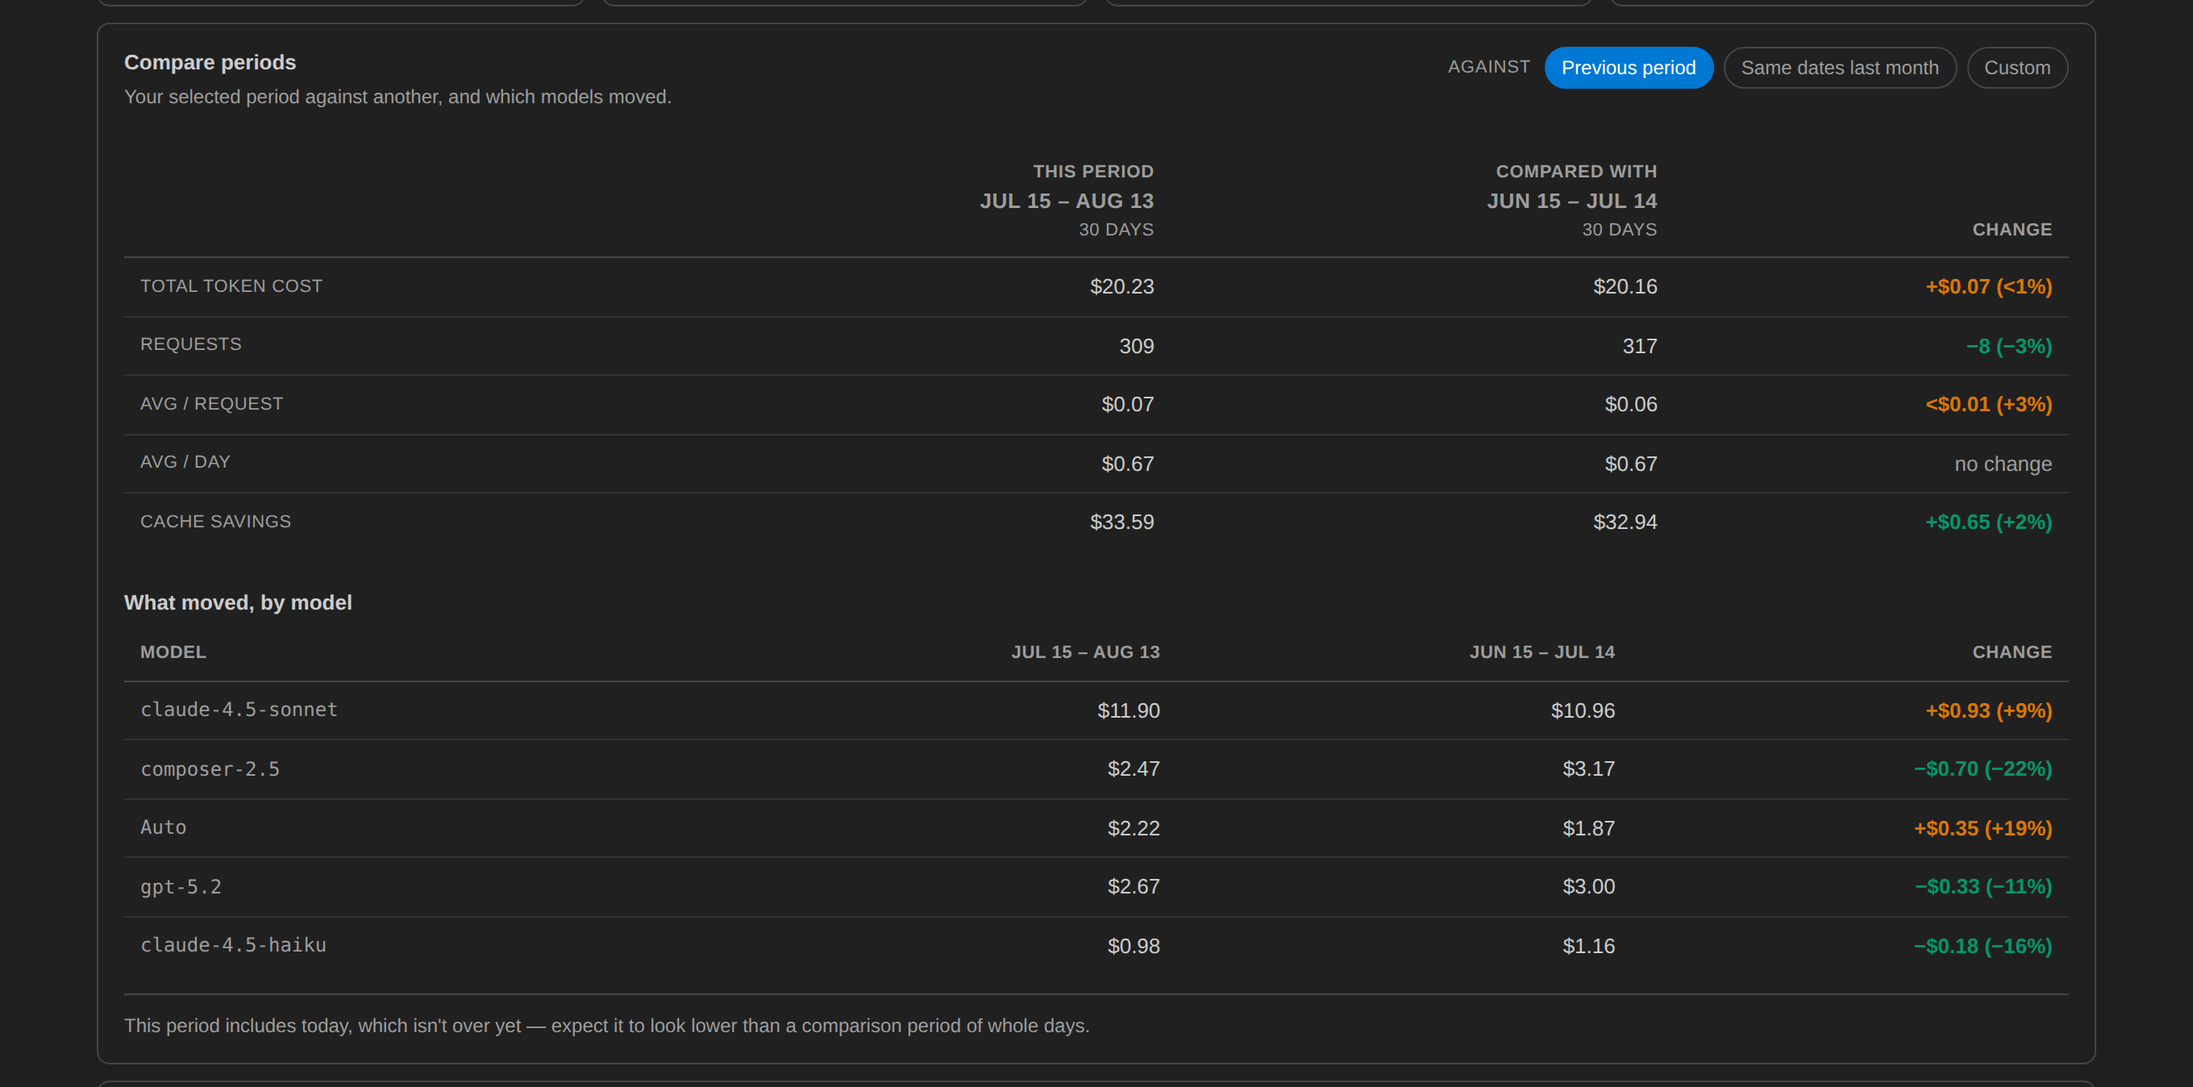
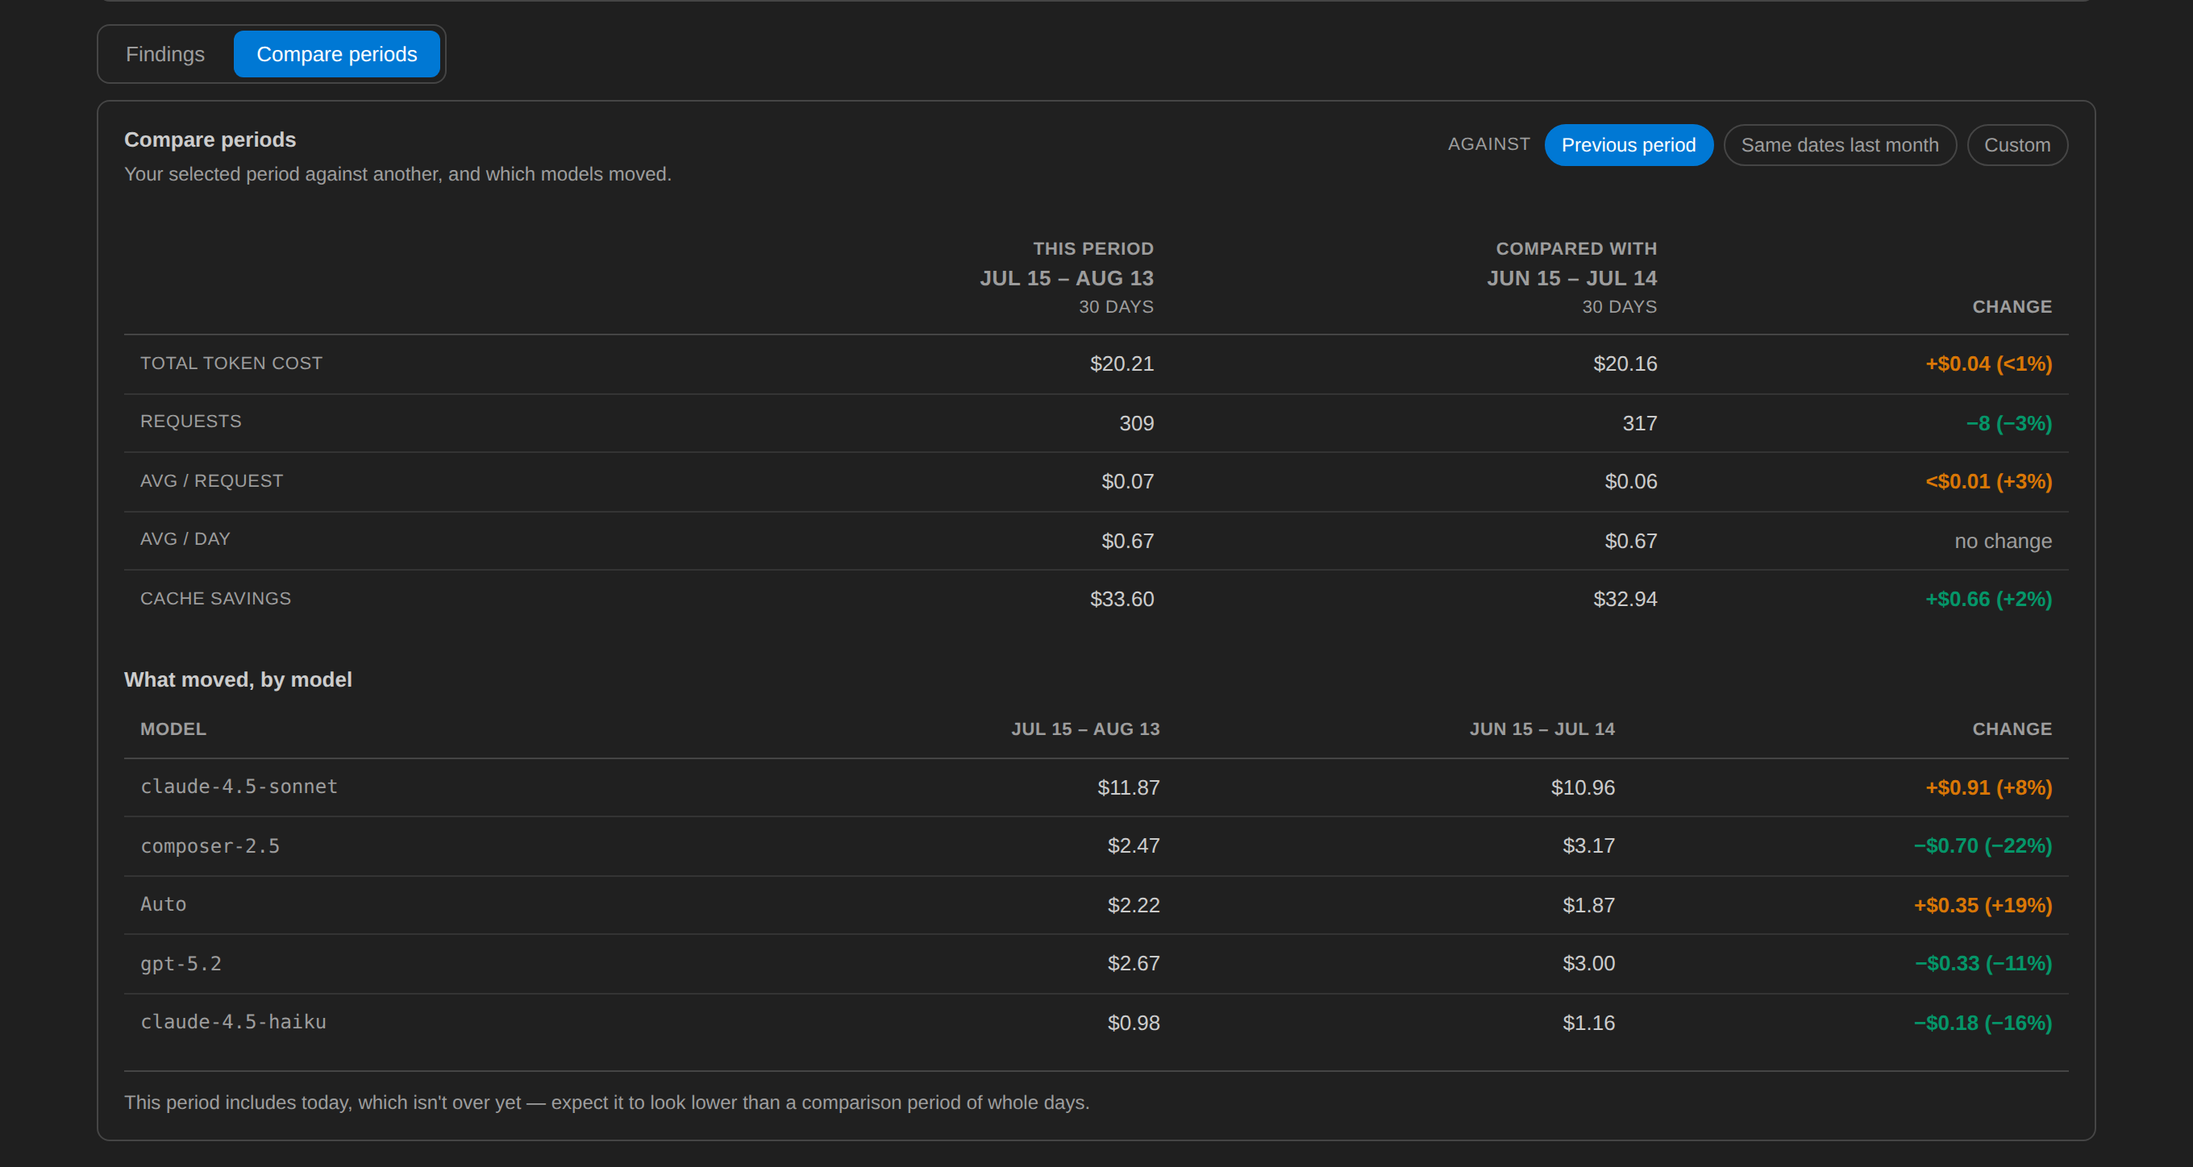
Move period comparison to Analyze, and fix the plan-change notices
Testing on a real Enterprise account surfaced four problems.

- The comparison panel was at the bottom of the request log's Analytics
  sub-tab, where it was not found. It now sits on Analyze behind a
  Findings / Compare periods sub-tab strip — both views answer "why does my
  bill look like this", one from a single period and one from two, and the
  sub-tabs keep either from becoming a very long scroll. This is where a
  future per-conversation view belongs too.
- The one-time switch to the "Current plan" range explained itself in terms
  of "the range you picked", which by then had already been replaced and was
  no longer on screen. It now describes the switch it made, from where the
  reader actually is.
- That notice was also the only warning that a range mixes two pricing
  systems, so navigating to any straddling range afterwards — "Month to
  date" being the obvious one — silently added per-request and token-priced
  dollars into one total. Any load whose events span the change now says so,
  as a warning rather than an info banner.
- Reworded the no-request-quota note; "this is expected for most current
  plans, not a bug" reads as the dashboard defending itself.

Also scopes the two tab strips' selectors. They share .view-tab for styling,
so the unscoped querySelectorAll matched both, and setPanel(undefined) lit
every tab whose data-panel was also undefined — leaving Findings and Compare
highlighted at once. Same hazard, and now the same fix, as the cost-mode
[…]

diff --git a/src/webview/main.js b/src/webview/main.js
@@ -113,6 +113,8 @@ const state = {
   page: 1,
   pageSize: 25,
   panel: 'requests',
+  /** Analyze tab sub-view: 'findings' | 'compare'. */
+  analyzePanel: 'findings',
   appView: 'overview',
   simMode: 'request',
   simRequestId: null,
@@ -333,8 +335,8 @@ function renderPlanCycle(quota, hardLimit) {
     const notes = [];
     if (quota) {
       notes.push(
-        'No fixed request quota found for this plan — usage like Auto is metered by token cost '
-        + '(see the cards below), not a request count. This is expected for most current plans, not a bug.',
+        'This plan meters usage by token cost rather than by a request count, '
+        + 'so there is no quota to fill — the cards below are the figures to watch.',
       );
     }
     if (hardLimit) notes.push(`Usage-based spend cap: $${hardLimit.toFixed(2)}/mo.`);
@@ -375,11 +377,35 @@ function applyPlanChangeDiscovery() {
   applyDateRange(range.start, range.end, 'plan');
   // Queued rather than shown: the reload below ends with its own banner, which
   // would replace this one immediately.
-  state.pendingNotice = `Your plan's billing changed on ${fmt.shortDate(change.dayKey)}. `
-    + `Showing usage since then — the ${fmt.num(change.legacyRequestsBefore)} earlier request${change.legacyRequestsBefore === 1 ? '' : 's'} in the range you picked were priced per request, so their dollars aren't comparable. `
-    + 'Pick another period to include them.';
+  //
+  // Written from where the user now is, not from where they were. By the time
+  // this appears the range has already been switched to "Current plan", so
+  // "the range you picked" named something no longer on screen and "pick
+  // another period" read as an instruction rather than an option.
+  const earlier = `${fmt.num(change.legacyRequestsBefore)} request${change.legacyRequestsBefore === 1 ? '' : 's'}`;
+  state.pendingNotice = `Your plan's billing changed on ${fmt.shortDate(change.dayKey)}, so this switched to the "Current plan" period. `
+    + `The ${earlier} before that date were priced per request, and mixing those dollars with today's would give a total that matches neither. `
+    + 'Pick any other period to see them.';
   void load();
   return true;
+}
+
+/**
+ * Warning for a loaded range that straddles the plan's billing change.
+ *
+ * Keyed on the events actually loaded rather than on the dates, so it fires for
+ * any range holding both kinds of request — a preset, a custom range, or a
+ * saved one restored on startup — and stays silent for a range that sits
+ * wholly on one side, where the totals are internally consistent.
+ */
+function planChangeSpanNote() {
+  const legacy = state.all.filter((e) => e.billingRegime === 'usage').length;
+  const metered = state.all.length - legacy;
+  if (!legacy || !metered) return '';
+  const changed = state.planChangeDay ? ` on ${fmt.shortDate(state.planChangeDay)}` : '';
+  return ` This range spans your plan's billing change${changed}: ${fmt.num(legacy)} of these requests`
+    + ` were priced per request and ${fmt.num(metered)} by token cost, so the totals below add up two`
+    + ' pricing systems. Use "Current plan" for figures comparable with cursor.com.';
 }
 
 /** The budget projection, or null when no budget is known (nothing to project against). */
@@ -618,6 +644,13 @@ function savePrefs(prefs) {
 // or applying a date preset silently clears the What-if/Billed highlight (and
 // clicking What-if/Billed fires the period handler with an undefined preset).
 const PRESET_BTN_SELECTOR = '.preset-btn[data-preset]';
+
+// The Requests and Analyze tab strips share .view-tab for styling only. Each
+// carries its own data attribute, and both selectors must stay scoped to it:
+// an unscoped '.view-tab' matched the other strip's buttons, and
+// setPanel(undefined) lit every tab whose data-panel was also undefined.
+const VIEW_TAB_SELECTOR = '.view-tab[data-panel]';
+const ANALYZE_TAB_SELECTOR = '.view-tab[data-analyze-panel]';
 
 const PRESET_LABELS = {
   today: 'Today',
@@ -1153,9 +1186,6 @@ function renderCharts(events) {
   ['analyticsStats', 'analyticsChartMain', 'analyticsChartRow'].forEach((id) => {
     $(id)?.classList.toggle('hidden', !hasData);
   });
-  // The comparison stays up even with nothing in this period: "0 requests here
-  // against 120 last week" is a finding, not an empty state.
-  renderComparison();
   if (!hasData) return;
 
   const summary = summarize(events);
@@ -1502,7 +1532,7 @@ function renderTable(events, summary) {
 
 function setPanel(panel) {
   state.panel = panel;
-  document.querySelectorAll('.view-tab').forEach((tab) => {
+  document.querySelectorAll(VIEW_TAB_SELECTOR).forEach((tab) => {
     const active = tab.dataset.panel === panel;
     tab.classList.toggle('active', active);
     tab.setAttribute('aria-selected', active ? 'true' : 'false');
@@ -1513,10 +1543,20 @@ function setPanel(panel) {
   // Rendered even with nothing loaded — renderCharts() puts up its own empty
   // note, and skipping it here used to leave the previous range's charts (or a
   // blank grid) on screen after switching tabs.
-  if (panel === 'analytics') {
-    renderCharts(state.filtered);
-    if (state.filtered.length) void loadTrendComparison();
-  }
+  if (panel === 'analytics') renderCharts(state.filtered);
+}
+
+/** Findings vs. period comparison, the two views on the Analyze tab. */
+function setAnalyzePanel(panel) {
+  state.analyzePanel = panel;
+  document.querySelectorAll(ANALYZE_TAB_SELECTOR).forEach((tab) => {
+    const active = tab.dataset.analyzePanel === panel;
+    tab.classList.toggle('active', active);
+    tab.setAttribute('aria-selected', active ? 'true' : 'false');
+  });
+  // One place decides which of the three boxes (empty note, findings,
+  // comparison) is visible, so a sub-tab switch can't leave two of them up.
+  renderAnalyze();
 }
 
 /** The baseline window for the current selection, or null if it can't be resolved. */
@@ -1590,7 +1630,7 @@ async function loadTrendComparison() {
   if (state.panel === 'analytics' && state.appView === 'usage') {
     renderAnalyticsStats(state.filtered, summarize(state.filtered), state.trend.previous);
   }
-  renderComparison();
+  if (state.appView === 'analyze') renderComparison();
   if (state.appView === 'overview') {
     // Rebuilt through the same helper renderOverview() uses: writing the badge
     // on its own here dropped the plan-change reconciliation note that shares
@@ -1888,7 +1928,15 @@ async function load() {
     const loadedLabel = countedAll < state.all.length
       ? `Loaded ${plural(countedAll, 'request')} (${plural(state.all.length, 'event')} incl. errored/aborted)`
       : `Loaded ${plural(state.all.length, 'request')}`;
-    showAlert('info', `${takePendingNotice()}${loadedLabel}${usage.email ? ` for ${usage.email}` : ''}${planLabel() ? ` (${planLabel()})` : ''}.${fallbackNote}`);
+    const notice = takePendingNotice();
+    // The one-time auto-switch notice announces the change on its own; every
+    // other visit to a range that straddles it needs the same warning, or the
+    // totals silently mix two pricing systems (the "Month to date" case).
+    const spanNote = notice ? '' : planChangeSpanNote();
+    showAlert(
+      spanNote ? 'warn' : 'info',
+      `${notice}${loadedLabel}${usage.email ? ` for ${usage.email}` : ''}${planLabel() ? ` (${planLabel()})` : ''}.${spanNote}${fallbackNote}`,
+    );
     // refresh() already re-renders the overview and analyze views.
     render();
     if (state.appView === 'simulator') refreshSimulator();
@@ -2437,14 +2485,22 @@ function renderAnalyze() {
   const content = $('analyzeContent');
   if (!empty || !content) return;
 
-  if (!state.filtered.length) {
-    empty.classList.remove('hidden');
-    content.classList.add('hidden');
+  // The comparison is worth showing with an empty period — "0 requests here
+  // against 120 last week" is a finding — so only the findings view collapses
+  // into the empty state, and the sub-tabs stay available either way.
+  const hasData = state.filtered.length > 0;
+  const onCompare = state.analyzePanel === 'compare';
+  $('analyzeTabs')?.classList.toggle('hidden', !state.loaded);
+  empty.classList.toggle('hidden', hasData || onCompare);
+  $('analyzeCompare')?.classList.toggle('hidden', !onCompare);
+  content.classList.toggle('hidden', !hasData || onCompare);
+
+  if (onCompare) {
+    renderComparison();
+    void loadTrendComparison();
     return;
   }
-
-  empty.classList.add('hidden');
-  content.classList.remove('hidden');
+  if (!hasData) return;
 
   initAnalyzeSidebar();
   const summary = summarize(state.filtered);
@@ -2973,6 +3029,10 @@ async function init() {
     btn.addEventListener('click', () => onPresetClick(btn.dataset.preset));
   });
 
+  document.querySelectorAll(ANALYZE_TAB_SELECTOR).forEach((tab) => {
+    tab.addEventListener('click', () => setAnalyzePanel(tab.dataset.analyzePanel));
+  });
+
   document.querySelectorAll('.compare-mode-btn').forEach((btn) => {
     btn.addEventListener('click', () => {
       if (state.trend.mode === btn.dataset.compareMode) return;
@@ -3021,7 +3081,7 @@ async function init() {
   $('prevPage').addEventListener('click', () => { state.page -= 1; refresh(); });
   $('nextPage').addEventListener('click', () => { state.page += 1; refresh(); });
 
-  document.querySelectorAll('.view-tab').forEach((tab) => {
+  document.querySelectorAll(VIEW_TAB_SELECTOR).forEach((tab) => {
     tab.addEventListener('click', () => setPanel(tab.dataset.panel));
   });
 

diff --git a/src/html.ts b/src/html.ts
@@ -241,6 +241,44 @@ export function getDashboardHtml(webview: vscode.Webview, extensionUri: vscode.U
         <p id="analyticsEmpty" class="panel analytics-empty hidden">No requests in this period, so there is nothing to chart yet. Widen the date range or clear the model filter.</p>
         <div class="analytics-stats" id="analyticsStats"></div>
 
+        <article class="panel analytics-chart-main" id="analyticsChartMain">
+          <h3 id="chartCostTitle">Daily token cost</h3>
+          <p class="panel-desc" id="chartCostDesc">How spend changed day to day · excludes flat usage fees</p>
+          <div class="chart-box chart-box-lg"><canvas id="chartCost"></canvas></div>
+        </article>
+        <div class="analytics-chart-row" id="analyticsChartRow">
+          <article class="panel">
+            <h3>Cost by model</h3>
+            <p class="panel-desc" id="chartModelsDesc">Top models by token/API spend</p>
+            <div class="chart-box"><canvas id="chartModels"></canvas></div>
+          </article>
+          <article class="panel">
+            <h3>Token volume</h3>
+            <p class="panel-desc">Input, output, and cache tokens · log scale when cache dominates</p>
+            <div class="chart-box"><canvas id="chartTokens"></canvas></div>
+          </article>
+        </div>
+      </section>
+    </main>
+
+    <section id="analyzeView" class="hidden">
+      <div id="analyzeEmpty" class="analyze-empty panel hidden">
+        <h2>No usage data yet</h2>
+        <p>Load a date range from the filters above, then return here for insights and Cursor Chat briefs.</p>
+      </div>
+
+      <!--
+        Same sub-tab pattern the request log uses for its charts. Both views
+        here answer "why does my bill look like this" — findings answer it from
+        one period, the comparison answers it from two — so they belong on the
+        same tab without stacking into one very long scroll.
+      -->
+      <div class="view-toggle hidden" role="tablist" aria-label="Analyze views" id="analyzeTabs">
+        <button type="button" class="view-tab active" data-analyze-panel="findings" role="tab" aria-selected="true">Findings</button>
+        <button type="button" class="view-tab" data-analyze-panel="compare" role="tab" aria-selected="false">Compare periods</button>
+      </div>
+
+      <div id="analyzeCompare" class="hidden" role="tabpanel">
         <!--
           The baseline picker lives here rather than in the filter bar above.
           The filter bar is the one answer to "what period am I looking at" on
@@ -272,31 +310,8 @@ export function getDashboardHtml(webview: vscode.Webview, extensionUri: vscode.U
           <p class="compare-note hidden" id="compareNote"></p>
         </article>
 
-        <article class="panel analytics-chart-main" id="analyticsChartMain">
-          <h3 id="chartCostTitle">Daily token cost</h3>
-          <p class="panel-desc" id="chartCostDesc">How spend changed day to day · excludes flat usage fees</p>
-          <div class="chart-box chart-box-lg"><canvas id="chartCost"></canvas></div>
-        </article>
-        <div class="analytics-chart-row" id="analyticsChartRow">
-          <article class="panel">
-            <h3>Cost by model</h3>
-            <p class="panel-desc" id="chartModelsDesc">Top models by token/API spend</p>
-            <div class="chart-box"><canvas id="chartModels"></canvas></div>
-          </article>
-          <article class="panel">
-            <h3>Token volume</h3>
-            <p class="panel-desc">Input, output, and cache tokens · log scale when cache dominates</p>
-            <div class="chart-box"><canvas id="chartTokens"></canvas></div>
-          </article>
-        </div>
-      </section>
-    </main>
-
-    <section id="analyzeView" class="hidden">
-      <div id="analyzeEmpty" class="analyze-empty panel hidden">
-        <h2>No usage data yet</h2>
-        <p>Load a date range from the filters above, then return here for insights and Cursor Chat briefs.</p>
       </div>
+
       <div id="analyzeContent" class="analyze-layout hidden">
         <div class="analyze-main">
           <header class="analyze-hero panel" id="analyzeHero"></header>

diff --git a/README.md b/README.md
@@ -66,19 +66,21 @@ Date presets are **Today / 7 days / 30 days / Month to date / Custom**. If your 
 
 ![Analytics charts](https://raw.githubusercontent.com/iair0007/cursor-usage/main/docs/screenshot-analytics.png)
 
-#### Comparing periods
+### Analyze
 
-Analytics also puts your selected period next to another one and shows **which models account for the difference** — sorted by biggest mover, not biggest spender, because a model that went from $2 to $14 is the answer to "why did my bill move".
+Two sub-tabs, both answering "why does my bill look like this" — **Findings** from one period, **Compare periods** from two.
+
+![Analyze tab](https://raw.githubusercontent.com/iair0007/cursor-usage/main/docs/screenshot-analyze.png)
+
+**Findings** are rule-based with configurable thresholds: which model dominates your spend, whether your cache is working, cold starts, heavy-output requests, spike requests — each with a concrete "what to do about it". The **Ask Cursor Chat** panel builds a compact brief from the data slices you pick, copies it, and focuses Cursor's chat so you just paste and send.
+
+#### Compare periods
+
+Puts your selected period next to another one and shows **which models account for the difference** — sorted by biggest mover, not biggest spender, because a model that went from $2 to $14 is the answer to "why did my bill move".
 
 ![Comparing two periods](https://raw.githubusercontent.com/iair0007/cursor-usage/main/docs/screenshot-compare.png)
 
 Compare against the **previous period** (the equal-length window immediately before), the **same dates last month**, or any **custom** window — useful for "did switching models actually help?" or "this sprint vs the last one". Both windows are always named in the column headers, and the panel warns you when the two aren't the same length or when your period includes today, which isn't over yet.
-
-### Analyze
-
-![Analyze tab](https://raw.githubusercontent.com/iair0007/cursor-usage/main/docs/screenshot-analyze.png)
-
-Rule-based findings with configurable thresholds: which model dominates your spend, whether your cache is working, cold starts, heavy-output requests, spike requests — each with a concrete "what to do about it". The **Ask Cursor Chat** panel builds a compact brief from the data slices you pick, copies it, and focuses Cursor's chat so you just paste and send.
 
 ### Simulator
 

diff --git a/CHANGELOG.md b/CHANGELOG.md
@@ -5,10 +5,19 @@ All notable user-facing changes. Earlier releases predate this file; see the
 
 ## Unreleased
 
-- **Compare periods** on the Analytics tab. Your selected range next to another
-  one — cost, requests, avg per request, avg per day and cache savings — plus a
-  model-by-model breakdown of what actually moved, sorted by biggest change
-  rather than biggest total.
+- **Compare periods**, a new sub-tab on Analyze. Your selected range next to
+  another one — cost, requests, avg per request, avg per day and cache savings
+  — plus a model-by-model breakdown of what actually moved, sorted by biggest
+  change rather than biggest total.
+- Analyze is now split into **Findings** and **Compare periods** sub-tabs, the
+  same pattern the request log uses for its charts.
+- A range that straddles a plan's billing change now says so every time it is
+  loaded, not only on the one automatic switch. Previously "Month to date"
+  quietly totalled two pricing systems together.
+- The automatic switch to the "Current plan" range now describes the switch it
+  made, instead of referring to a range it had already replaced.
+- Dropped the defensive "this is expected, not a bug" from the no-request-quota
+  note.
 - Choose the baseline: the previous equal-length period, the same dates last
   month, or a custom window. The choice is remembered between sessions.
 - The panel names both windows in its column headers, and says so when the two
